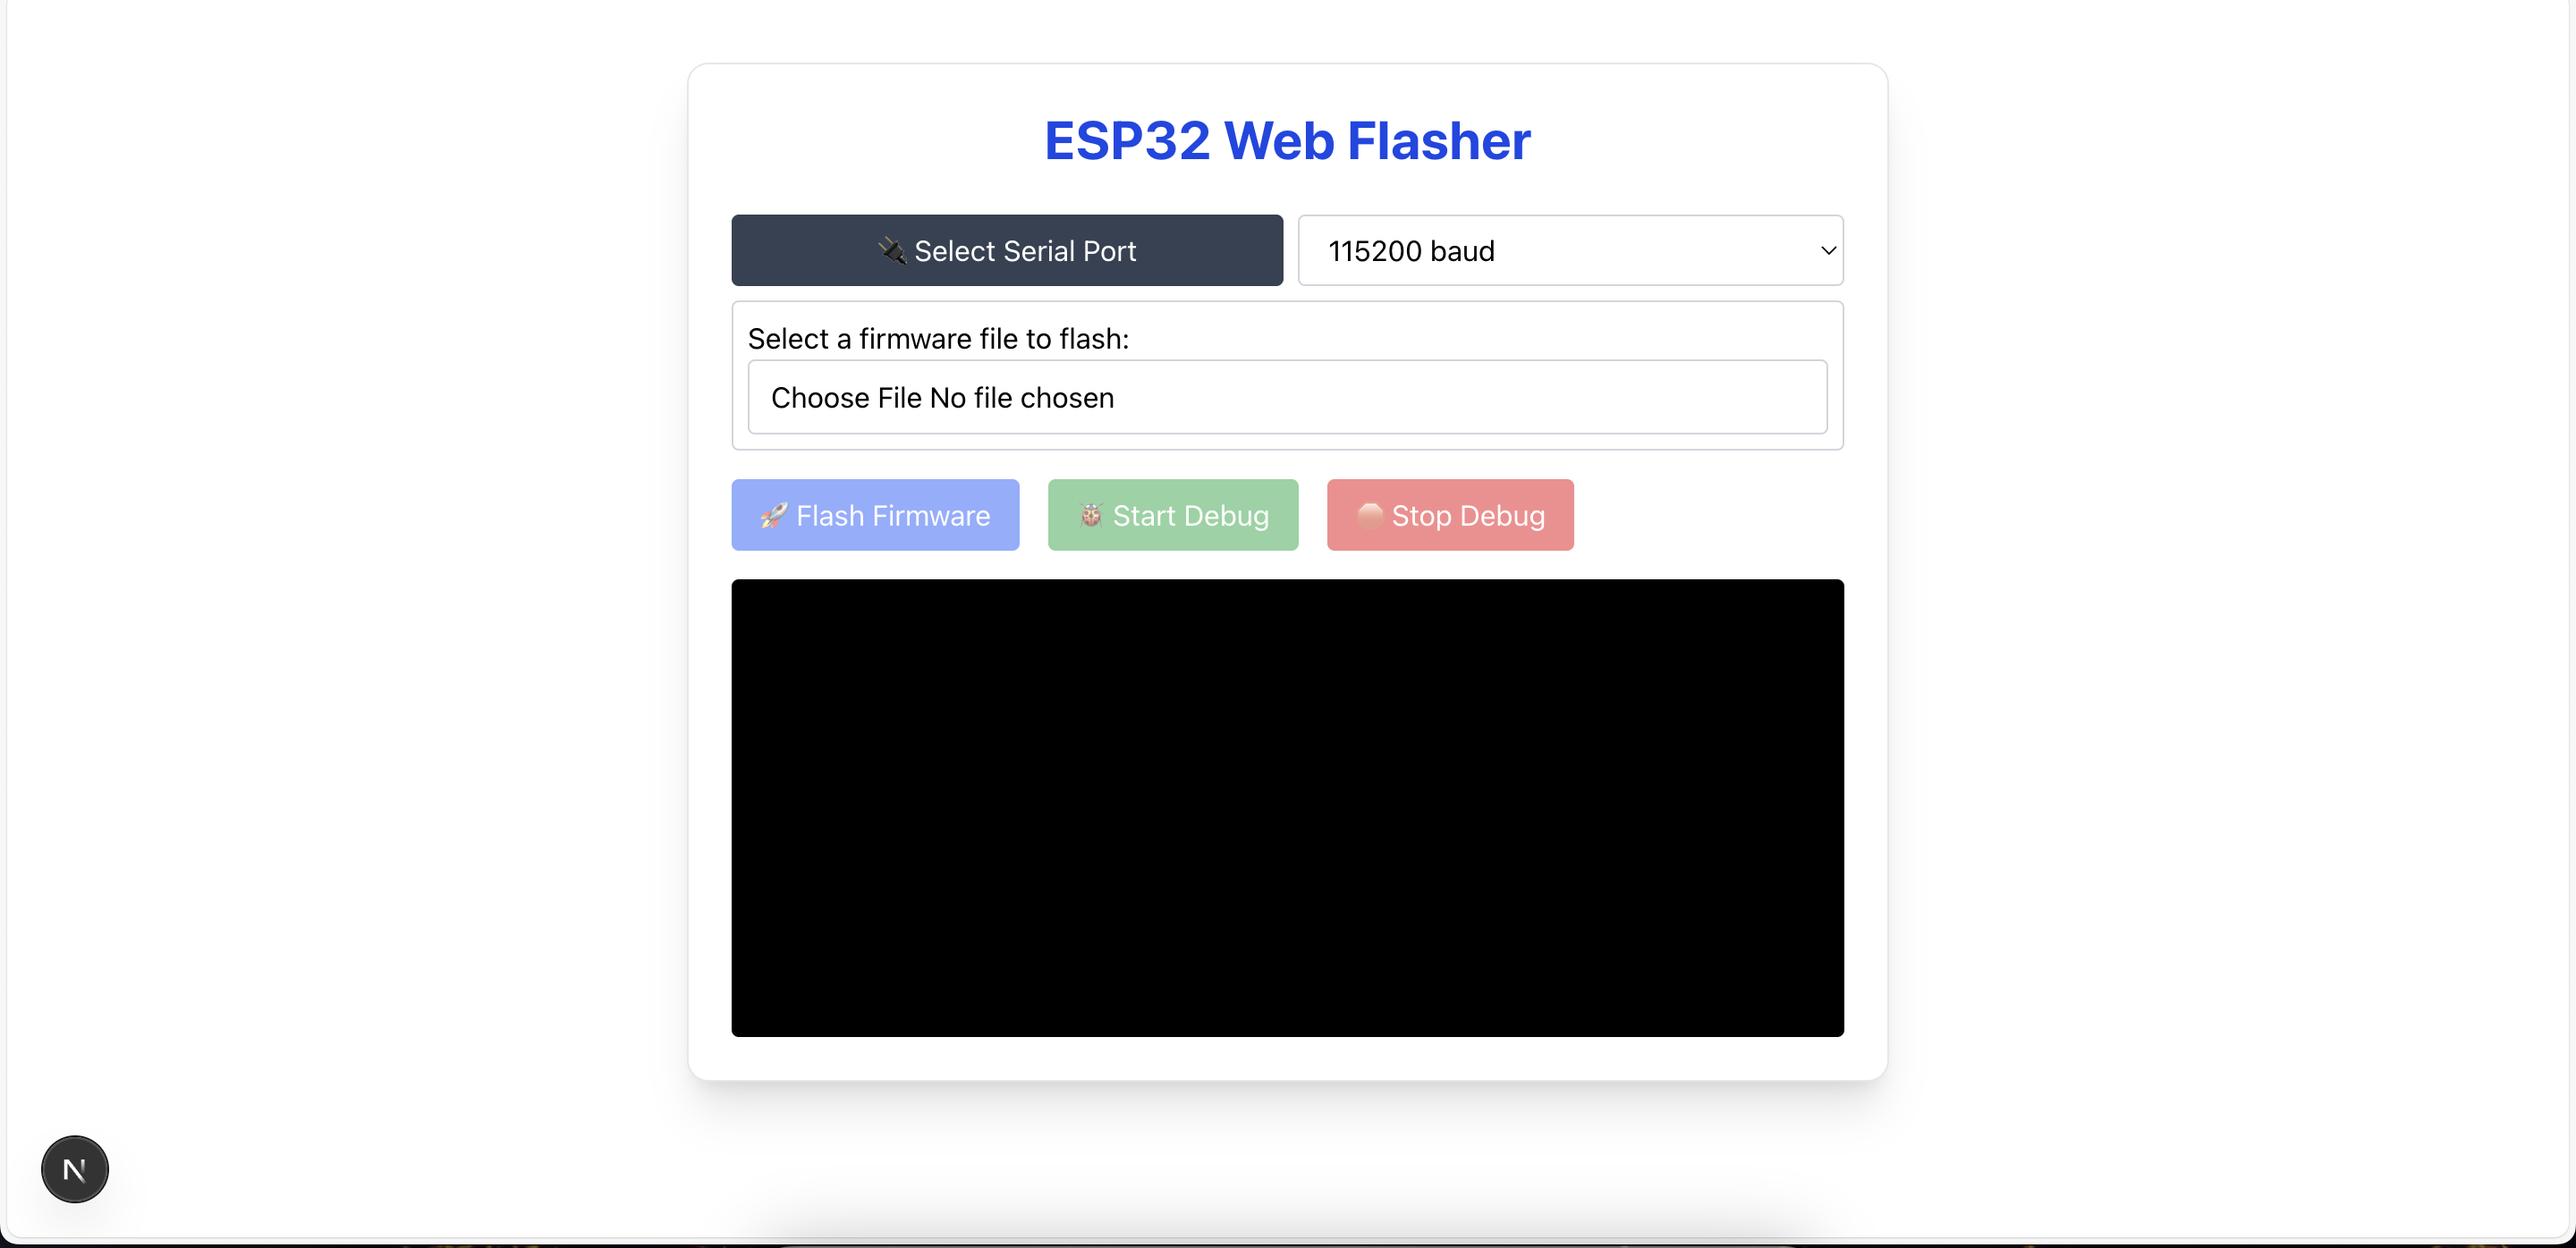
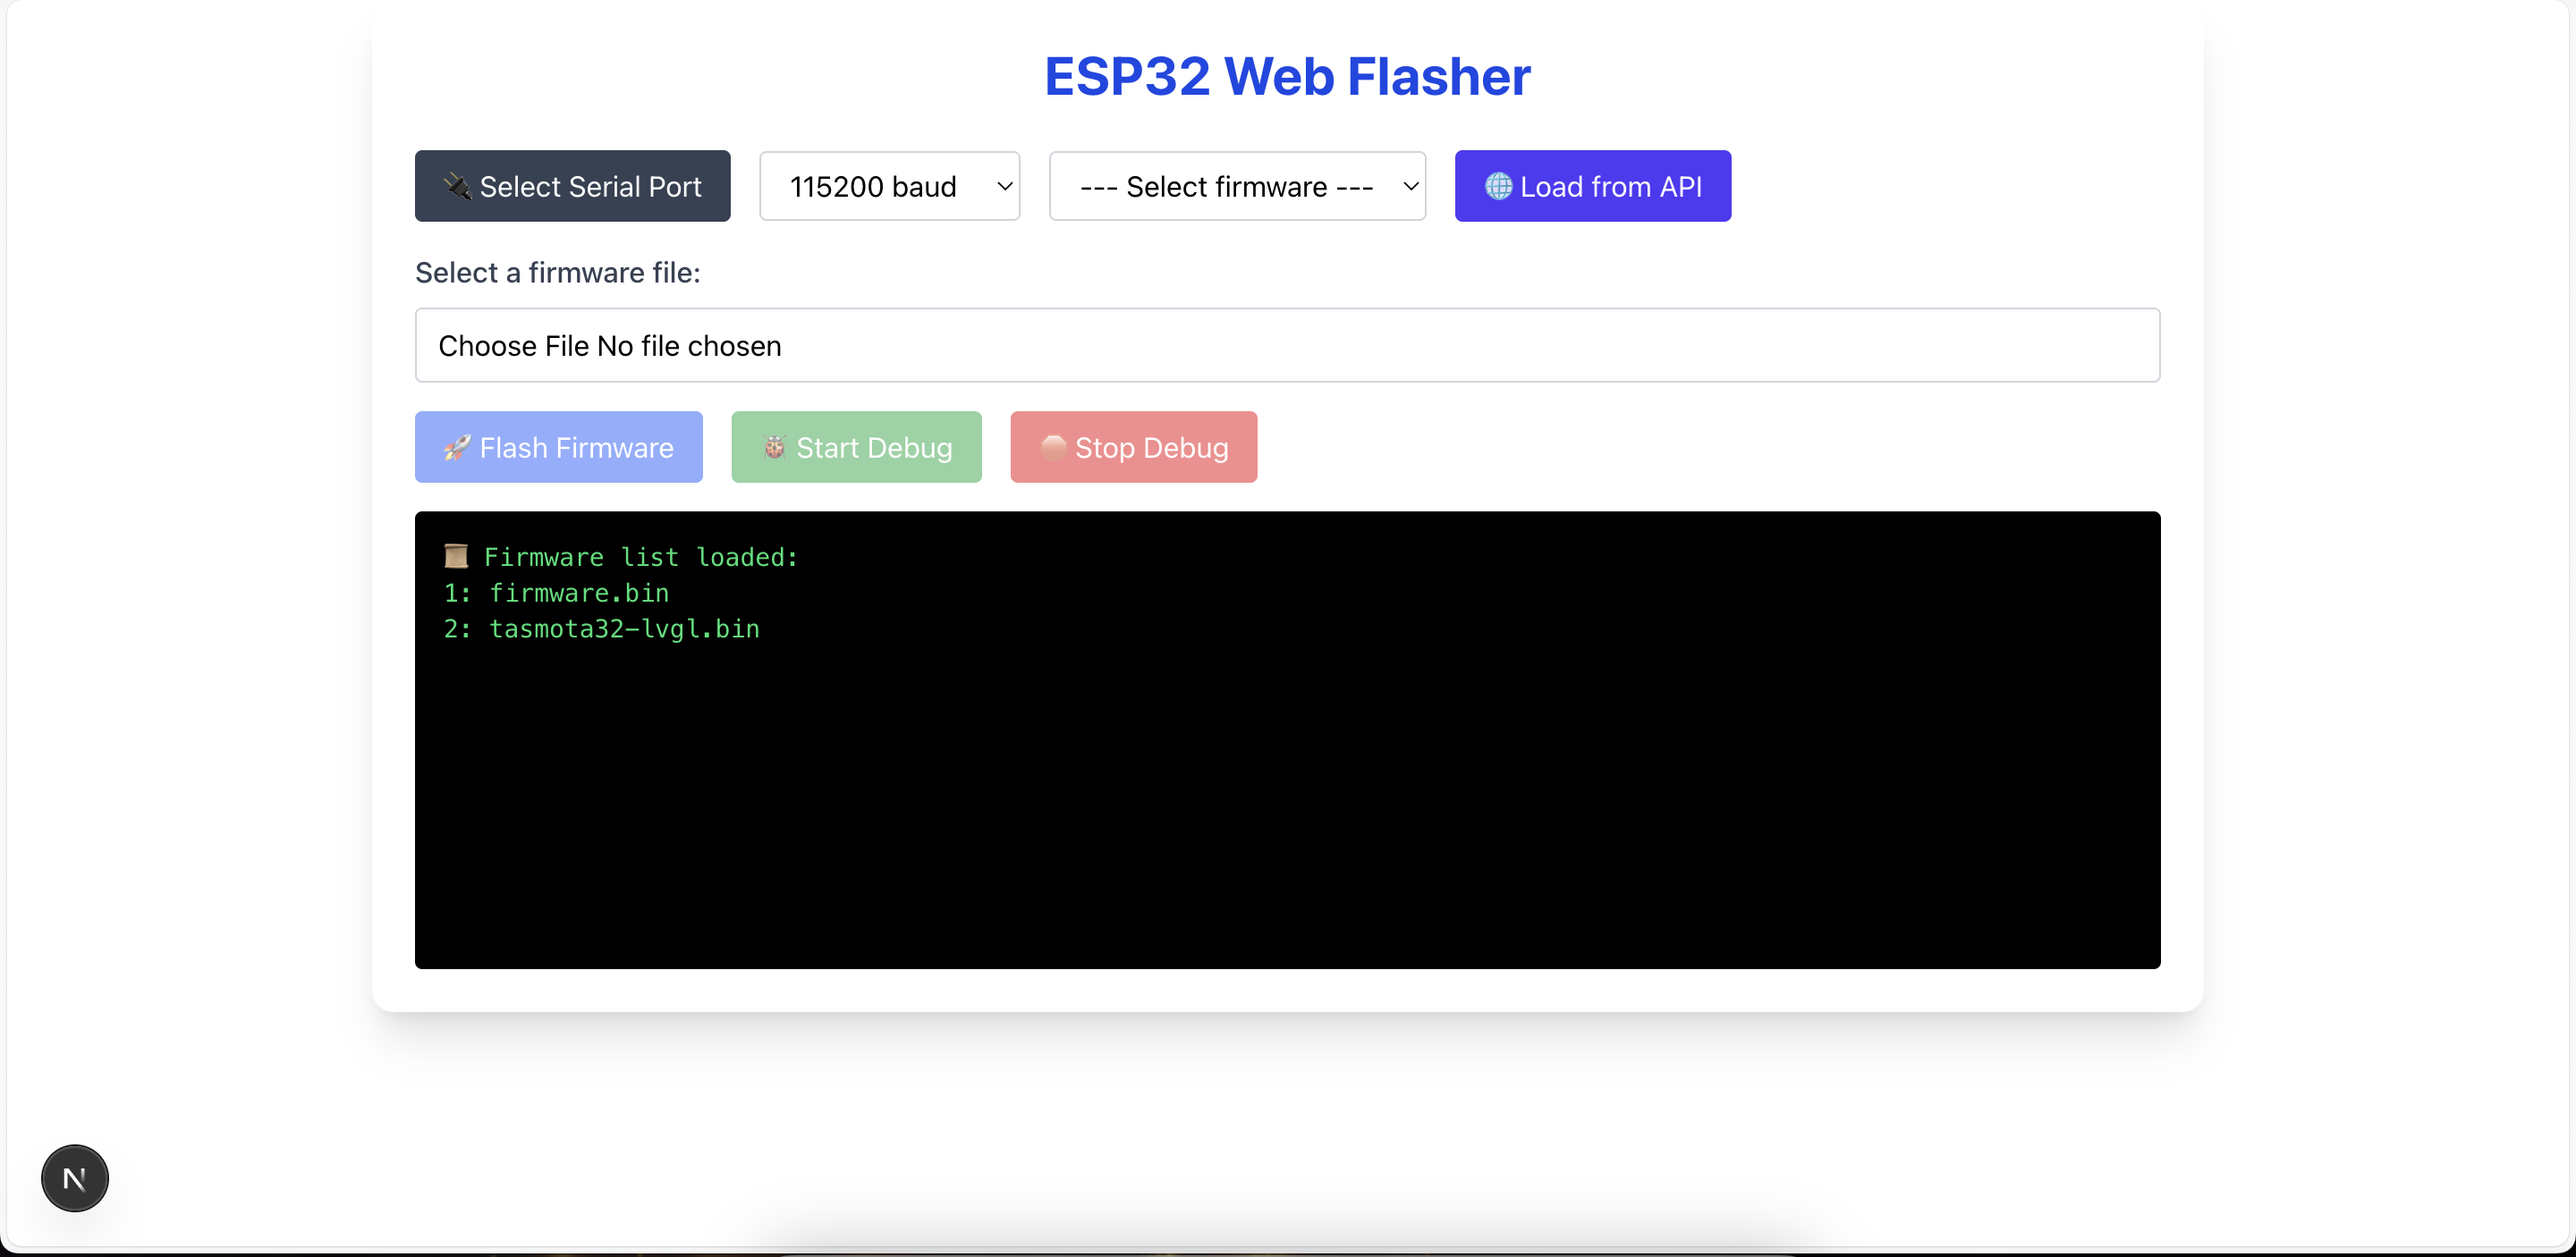
feat: update README with correct clone instructions and add .env setup; refactor firmware route to handle environment variables

diff --git a/app/api/firmware/route.ts b/app/api/firmware/route.ts
@@ -1,17 +1,29 @@
 import { NextRequest, NextResponse } from 'next/server'
 import fs from 'fs'
 import path from 'path'
+import os from 'os'
 import { Tools } from '@/utils/api/Tools'
+import dotenv from 'dotenv';
+dotenv.config();
 
 export const GET = async () => {
-    const firmwareDir = path.resolve('public/firmware')
-    const allFiles = fs.readdirSync(firmwareDir).filter(file => {
-        const ext = path.extname(file)
-        return ext === '.bin' || ext === '.hex'
-    })
-    return NextResponse.json(Tools.res(allFiles))
-}
+  let firmwareDir = process.env.FIRMWARE_DIR || 'public/firmware';
+  if (firmwareDir.startsWith('~')) {
+    firmwareDir = path.join(os.homedir(), firmwareDir.slice(1));
+  }
 
+  firmwareDir = path.resolve(firmwareDir);
+  if (!fs.existsSync(firmwareDir)) {
+    return NextResponse.json({ error: `Firmware directory not found: ${firmwareDir}` }, { status: 404 });
+  }
+
+  const allFiles = fs.readdirSync(firmwareDir).filter(file => {
+    const ext = path.extname(file);
+    return ext === '.bin' || ext === '.hex';
+  });
+
+  return NextResponse.json(Tools.res(allFiles));
+};
 export const POST = async (req: NextRequest) => {
     const { fileName } = await req.json()
     if (!fileName) {

diff --git a/app/page.tsx b/app/page.tsx
@@ -2,9 +2,7 @@
 
 import { useEffect, useState } from "react";
 import { ESPLoader } from "esptool-js";
-import Image from "next/image";
 
-// TypeScript global augmentation for Web Serial API
 declare global {
   interface Navigator {
     serial: any;
@@ -52,7 +50,6 @@ export default function Home() {
       const res = await fetch("/api/firmware");
       if (!res.ok) throw new Error("Failed to fetch firmware list");
       const { data } = await res.json();
-      // if (!data) throw new Error("No data found");
       appendLog("📜 Firmware list loaded:");
       data.forEach((item: string, index: number) => {
         appendLog(`${index + 1}: ${item}`);

diff --git a/README.md b/README.md
@@ -29,9 +29,14 @@ A modern, browser-based ESP32 firmware flasher and serial debug viewer built wit
 ### 1. Clone and install dependencies:
 
 ```bash
-git clone https://github.com/yourusername/esp32-webflasher-nextjs.git
+git clone https://github.com/lekpcsteam/esp32-webflasher-nextjs.git
 cd esp32-webflasher-nextjs
 npm install
+```
+
+#### Add .env
+```
+FIRMWARE_DIR="<PATH>" // ex. ~/Dowloads,  *required ~/
 ```
 
 ### 2. Run locally:
